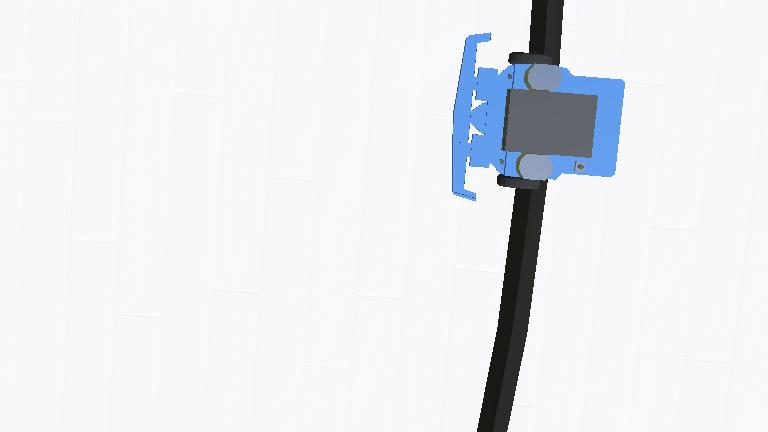
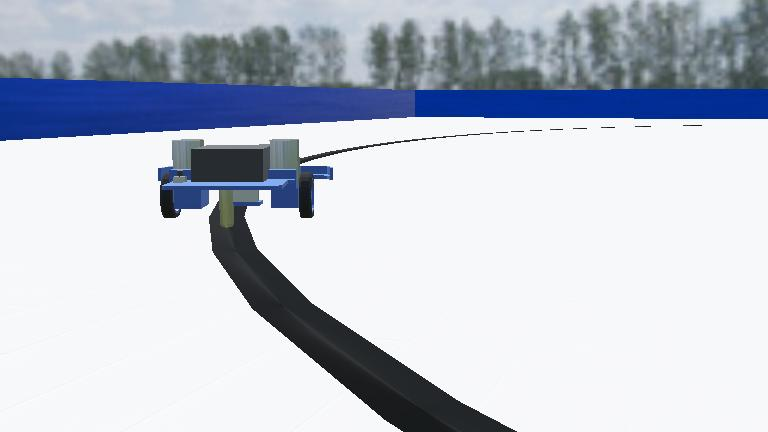
init controller

diff --git a/controllers/robot/robot.py b/controllers/robot/robot.py
@@ -1,32 +1,68 @@
 from controller import Robot
-import numpy as np
-import csv
 
-filename = 'my_data.csv'
-
-# Initialize Webots Robot
 robot = Robot()
-timestep = int(robot.getBasicTimeStep())
+time_step = int(robot.getBasicTimeStep())
 
-# Initialize the camera
-camera = robot.getDevice("camera")
-camera.enable(timestep)
+# Motors
+left_motor = robot.getDevice('left wheel motor')
+right_motor = robot.getDevice('right wheel motor')
+left_motor.setPosition(float('inf'))
+right_motor.setPosition(float('inf'))
+left_motor.setVelocity(0)
+right_motor.setVelocity(0)
 
-# Initialize the receiver
-receiver = robot.getDevice("receiver")
-receiver.enable(timestep)
+# IR sensors
+ir_sensors = []
+sensor_names = ['s1', 's2', 's3', 's4','s5']
+weights = [-2, -1, 0, 1, 2]  
 
-# Initialize 4-wheel motors
-left_front_motor = robot.getDevice("front left wheel")
-left_back_motor = robot.getDevice("back left wheel")
-right_front_motor = robot.getDevice("front right wheel")
-right_back_motor = robot.getDevice("back right wheel")
+for name in sensor_names:
+    sensor = robot.getDevice(name)
+    sensor.enable(time_step)
+    ir_sensors.append(sensor)
 
-# Main loop
-while robot.step(timestep) != -1:
-    speeds = [0,0,0,0]
-    with open(filename, 'a', newline='') as csvfile:
-        csv_writer = csv.writer(csvfile)
-        csv_writer.writerow([*speeds])
+# PID constants
+Kp = 0.5  # Proportional gain
+Ki = 0.01  # Integral gain
+Kd = 0.1  # Derivative gain
 
+# PID variables
+integral = 0
+previous_error = 0
+
+# Maximum speed for the motors
+MAX_SPEED = 6.28
+
+while robot.step(time_step) != -1:
+    # Read sensor values
+    sensor_values = [sensor.getValue() for sensor in ir_sensors]
+    print("sensor_values = ", sensor_values)
     
+    # Normalize sensor values (0 for white, 1 for black)
+    normalized_values = [(1 if value < 500 else 0) for value in sensor_values] 
+    
+    numerator = sum(normalized_values[i] * weights[i] for i in range(len(weights)))
+    denominator = sum(normalized_values)
+
+    if denominator != 0:
+        error = numerator / denominator
+    else:
+        error = previous_error
+        
+    print("-"*50)
+    print("error = ", error)
+
+    # PID control
+    integral += error
+    derivative = error - previous_error
+    correction = Kp * error + Ki * integral + Kd * derivative
+    previous_error = error
+
+    left_speed = MAX_SPEED - correction
+    right_speed = MAX_SPEED + correction
+
+    left_speed = max(min(left_speed, MAX_SPEED), -MAX_SPEED)
+    right_speed = max(min(right_speed, MAX_SPEED), -MAX_SPEED)
+
+    left_motor.setVelocity(left_speed)
+    right_motor.setVelocity(right_speed)
